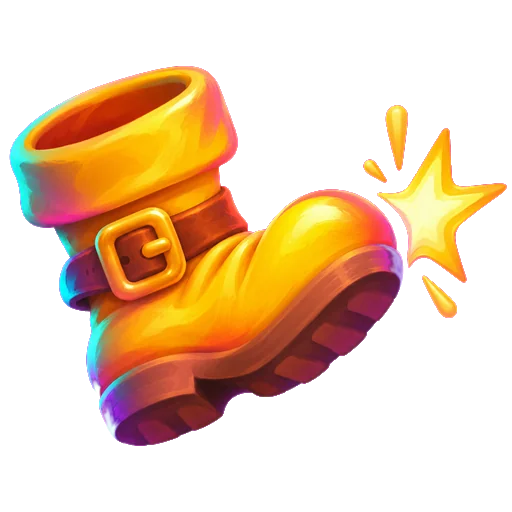
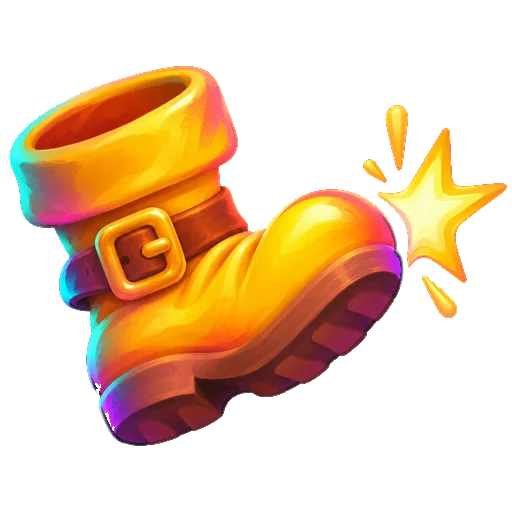
Art : nouveau détourage sans liseré rose (images détourées uniquement)
finir.py : le magenta caché sous les pixels transparents est remplacé par la couleur
du sujet (le WebP le faisait baver sur le bord), les mélanges sujet + magenta du bord
deviennent transparents, et le détourage passe avant le raccord des bords.
Mêmes noms et mêmes tailles ; les images non détourées ne changent pas.

diff --git a/tools/art/finir.py b/tools/art/finir.py
@@ -1,22 +1,28 @@
 #!/usr/bin/env python3
-"""Kevblast : finit les images brutes de Codex.
+"""Finit les images brutes de Codex.
 Usage : python finir.py PROMPTS_JSON DOSSIER_BRUT DOSSIER_SORTIE [fichier ...]
 - recadre (centre, cover) puis redimensionne à la taille exacte demandée ;
 - si detourer : fond magenta #FF00FF -> transparent (tolérance + bord adouci + suppression du halo rose) ;
-- enregistre <fichier>.webp qualité 85.
+- si raccord: N (dans le JSON) ou RACCORD="nom:N" (environnement), fond les N px des bords gauche/droite (panoramas en boucle) ;
+- enregistre <fichier>.webp qualité 85, ou au chemin « sortie » du JSON (.png accepté, sous-dossiers créés).
 """
 import json, sys
 from pathlib import Path
 import numpy as np
-from PIL import Image, ImageFilter
+from PIL import Image, ImageDraw, ImageFilter
 
+import os
+# RACCORD="ciel_a:128,ciel_b:128" : fond les bords gauche/droite de ces images
+RACCORD = dict((k, int(v)) for k, v in (e.split(":") for e in os.environ.get("RACCORD", "").split(",") if e))
 TOL_DUR, TOL_DOUX = 45.0, 95.0  # distance RGB au magenta : <dur = transparent, >doux = opaque
 
 def cover(img, w, h):
+    """Recadre sans déformer. Panoramas (largeur >= 3x hauteur) : on garde le bas (ligne d'horizon)."""
     sw, sh = img.size
     r = max(w / sw, h / sh)
     img = img.resize((round(sw * r), round(sh * r)), Image.LANCZOS)
-    l, t = (img.width - w) // 2, (img.height - h) // 2
+    l = (img.width - w) // 2
+    t = img.height - h if w >= 3 * h else (img.height - h) // 2
     return img.crop((l, t, l + w, t + h))
 
 def detourer(img):
@@ -25,6 +31,16 @@ def detourer(img):
     # distance au magenta pur
     d = np.sqrt((255 - r) ** 2 + g ** 2 + (255 - b) ** 2)
     alpha = np.clip((d - TOL_DUR) / (TOL_DOUX - TOL_DUR), 0, 1)
+    # ne détoure que le magenta relié au bord : un sujet rose/magenta au centre reste opaque
+    proche = Image.fromarray(((d < TOL_DUR) * 255).astype(np.uint8))
+    hh, ww = d.shape
+    for x, y in [(x, 0) for x in range(0, ww, 8)] + [(x, hh - 1) for x in range(0, ww, 8)] + \
+                [(0, y) for y in range(0, hh, 8)] + [(ww - 1, y) for y in range(0, hh, 8)]:
+        if proche.getpixel((x, y)) == 255: ImageDraw.floodfill(proche, (x, y), 128)
+    # + les poches de magenta quasi pur enfermées dans le sujet (entre deux pièces, sous un bras…)
+    proche = Image.fromarray(np.where((np.asarray(proche) == 128) | (d < 25), 128, 0).astype(np.uint8))
+    fond = np.asarray(proche.point(lambda v: 255 if v == 128 else 0).filter(ImageFilter.MaxFilter(3))) > 0
+    alpha = np.where(fond, alpha, 1.0)
     # adoucissement léger du bord
     am = Image.fromarray((alpha * 255).astype(np.uint8)).filter(ImageFilter.GaussianBlur(0.8))
     alpha = np.asarray(am).astype(np.float32) / 255
@@ -35,13 +51,60 @@ def detourer(img):
     with np.errstate(divide="ignore", invalid="ignore"):
         rec = (a - (1 - alpha[..., None]) * mag) / np.maximum(alpha[..., None], 1e-3)
     a = np.where(bord[..., None], np.clip(rec, 0, 255), a)
-    # anti-halo : sur les bords, limite r et b au-dessus de g (teinte rose résiduelle)
+    # anti-halo : près du fond (2 px), retire la teinte magenta résiduelle (r et b au-dessus de g)
+    pres = np.asarray(Image.fromarray((fond * 255).astype(np.uint8)).filter(ImageFilter.MaxFilter(5))) > 0
+    zone = pres & (alpha > 0)
     spill = np.minimum(a[..., 0], a[..., 2]) - a[..., 1]
-    lim = bord & (spill > 40)
-    a[..., 0] = np.where(lim, a[..., 0] - (spill - 40) * 0.5, a[..., 0])
-    a[..., 2] = np.where(lim, a[..., 2] - (spill - 40) * 0.5, a[..., 2])
+    lim = zone & (spill > 10)
+    a[..., 0] = np.where(lim, a[..., 0] - (spill - 10), a[..., 0])
+    a[..., 2] = np.where(lim, a[..., 2] - (spill - 10), a[..., 2])
+    # bouche les petits trous (pixels du sujet presque magenta) : fermeture 3x3 du masque,
+    # et les pixels rebouchés prennent la couleur médiane de leurs voisins opaques
+    m = Image.fromarray((alpha * 255).astype(np.uint8))
+    ferme = np.asarray(m.filter(ImageFilter.MaxFilter(3)).filter(ImageFilter.MinFilter(3))).astype(np.float32) / 255
+    trou = ferme > alpha + 0.5
+    if trou.any():
+        opaque = np.where((alpha > 0.9)[..., None], a, 0).astype(np.uint8)
+        med = np.asarray(Image.fromarray(opaque).filter(ImageFilter.MaxFilter(3))).astype(np.float32)
+        a[trou] = med[trou]
+        alpha = np.maximum(alpha, ferme)
+    # dernière passe : à moins de 3 px de la transparence, un pixel resté presque magenta est du fond
+    d2 = np.sqrt((255 - a[..., 0]) ** 2 + a[..., 1] ** 2 + (255 - a[..., 2]) ** 2)
+    transp = Image.fromarray(((alpha < 0.5) * 255).astype(np.uint8)).filter(ImageFilter.MaxFilter(7))
+    alpha = np.where((np.asarray(transp) > 0) & (d2 < 80) & (np.abs(a[..., 0] - a[..., 2]) < 30), 0.0, alpha)
+    # puis, sur 2 px de bord, les mélanges sujet + magenta (r ≈ b, tous deux nettement au-dessus de g)
+    # deviennent transparents : les griser laisserait un contour sombre sur fond clair
+    bande = (np.asarray(Image.fromarray(((alpha < 0.5) * 255).astype(np.uint8)).filter(ImageFilter.MaxFilter(5))) > 0) & (alpha >= 0.5)
+    sp = np.minimum(a[..., 0], a[..., 2]) - a[..., 1]
+    mel = bande & (np.abs(a[..., 0] - a[..., 2]) < 30) & (sp > 25)
+    alpha = np.where(mel, 0.0, alpha)
+    # sous les pixels transparents, remplace le magenta par la couleur du sujet voisin :
+    # sinon le sous-échantillonnage des couleurs du WebP fait baver un liseré rose sur le bord
+    poids = (alpha > 0.5).astype(np.float32)
+    def flou(x, r):  # flou boîte séparable (numpy), rayon r
+        for ax in (0, 1):
+            p_ = np.pad(x, [(r + 1, r) if i == ax else (0, 0) for i in range(2)], mode="edge")
+            c = np.cumsum(p_, axis=ax)
+            x = (np.take(c, range(2 * r + 1, c.shape[ax]), axis=ax) - np.take(c, range(0, c.shape[ax] - 2 * r - 1), axis=ax)) / (2 * r + 1)
+        return x
+    for r in (2, 6, 18):
+        wsum = flou(poids, r)
+        if (wsum > 1e-4).any():
+            for c in range(3):
+                col = flou(a[..., c] * poids, r) / np.maximum(wsum, 1e-4)
+                a[..., c] = np.where((alpha <= 0.5) & (wsum > 1e-4) & (poids == 0), col, a[..., c])
+            poids = np.maximum(poids, (wsum > 1e-4).astype(np.float32) * (alpha <= 0.5))
     out = np.dstack([np.clip(a, 0, 255), alpha * 255]).astype(np.uint8)
     return Image.fromarray(out)
+
+def raccorder(img, bande):
+    """Rend une image raccordable gauche/droite : les `bande` px de droite sont fondus dans
+    ceux de gauche puis retirés ; l'image est ensuite ramenée à sa largeur d'origine."""
+    a = np.asarray(img).astype(np.float32); h, w = a.shape[:2]
+    t = np.linspace(0, 1, bande)[None, :, None]
+    out = a[:, : w - bande].copy()
+    out[:, :bande] = a[:, w - bande:] * (1 - t) + a[:, :bande] * t
+    return Image.fromarray(np.clip(out, 0, 255).astype(np.uint8)).resize((w, h), Image.LANCZOS)
 
 def main():
     js, brut, sortie, *noms = sys.argv[1:]
@@ -52,9 +115,14 @@ def main():
         if not src.exists(): print("absent", src); continue
         w, h = map(int, im["taille"].split("x"))
         img = cover(Image.open(src).convert("RGB"), w, h)
+        # détourer d'abord : fondre les bords avant mélangerait le magenta au sujet
         if im.get("detourer"): img = detourer(img)
-        dst = Path(sortie) / f"{im['fichier']}.webp"
-        img.save(dst, "WEBP", quality=85, method=6)
+        bande = im.get("raccord") or RACCORD.get(im["fichier"])
+        if bande: img = raccorder(img, int(bande))
+        dst = Path(sortie) / im.get("sortie", f"{im['fichier']}.webp")
+        dst.parent.mkdir(parents=True, exist_ok=True)
+        if dst.suffix == ".png": img.save(dst, "PNG", optimize=True)
+        else: img.save(dst, "WEBP", quality=85, method=6)
         print(f"{dst.name} {w}x{h} {dst.stat().st_size // 1024} Ko")
 
 if __name__ == "__main__":
